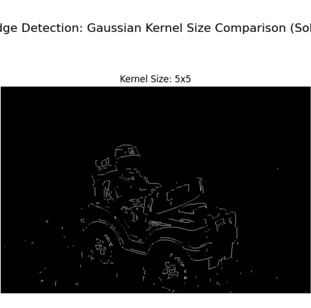
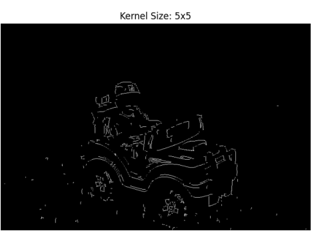
Trim suptitle and OCR print output from top of split images

diff --git a/convert.py b/convert.py
@@ -83,8 +83,8 @@ def _find_gap_columns(gray: np.ndarray) -> np.ndarray:
 def _trim_content_rows(gray: np.ndarray) -> tuple[int, int]:
     """Returns (y_start, y_end) of the main dark-content block inside a
     cropped image slice. Skips thin text rows (suptitles, OCR bleed) at the
-    top by requiring rows to have a high density of dark pixels (image
-    content), not just sparse text strokes."""
+    top by requiring a long run of dense rows (real image content), not just
+    one or two dense rows that may be text descenders or punctuation."""
     h, w = gray.shape
     if h == 0:
         return 0, 0
@@ -95,20 +95,58 @@ def _trim_content_rows(gray: np.ndarray) -> tuple[int, int]:
     dark_mask = gray < (WHITE_THRESHOLD - 60)
     row_density = dark_mask.sum(axis=1) / max(1, w)
 
-    # Density threshold: text rows have density < 0.15; image rows have >= 0.30.
+    # Find the first run of MIN_RUN consecutive dense rows. Image content has
+    # long dense stretches; text rows are short isolated dense strokes.
     DENSITY_THRESHOLD = 0.30
-    is_content = row_density >= DENSITY_THRESHOLD
+    MIN_RUN = 15
+    is_dense = row_density >= DENSITY_THRESHOLD
 
-    if not is_content.any():
-        # Fall back to first/last dark row.
+    start_y = 0
+    run = 0
+    found = False
+    for y in range(h):
+        if is_dense[y]:
+            run += 1
+            if run >= MIN_RUN:
+                # First row of this long run is our content start.
+                start_y = y - run + 1
+                found = True
+                break
+        else:
+            run = 0
+
+    if not found:
+        # No long dense run found: fall back to first dark row, or full image.
         any_dark = dark_mask.any(axis=1)
         if not any_dark.any():
             return 0, h
         ys = np.where(any_dark)[0]
         return int(ys[0]), int(ys[-1]) + 1
 
-    ys = np.where(is_content)[0]
-    return int(ys[0]), int(ys[-1]) + 1
+    # Now find the end: walk from start_y to find the last dense row that is
+    # followed by enough dense rows to be content (avoid stopping at a text
+    # descender above another text band).
+    end_y = h
+    run = 0
+    last_dense = start_y
+    for y in range(start_y, h):
+        if is_dense[y]:
+            run += 1
+            last_dense = y
+        else:
+            if run >= MIN_RUN:
+                # This was a real content run; keep last_dense as current end.
+                end_y = last_dense + 1
+            run = 0
+    if run >= MIN_RUN:
+        end_y = last_dense + 1
+
+    # If everything after start_y is sparse text (no MIN_RUN block), keep
+    # start_y to end of image rather than nothing.
+    if end_y <= start_y:
+        end_y = h
+
+    return int(start_y), int(end_y)
 
 
 def _find_subplot_titles(img: Image.Image, segments: list[tuple[int, int]],
@@ -224,13 +262,13 @@ def split_grid_image(image_path: Path) -> list[tuple[Path, str]]:
         else:
             cropped = img.crop((0, a0, img.width, a1))
 
-        # Trim out any stray title/OCR text that bleeds into the part. Use a
-        # small padding so the per-subplot title stays visible, while the
-        # suptitle (which sits well above the first row of dense content) is
-        # removed.
+        # Trim out any stray title/OCR text that bleeds into the part. The
+        # per-subplot title sits just above the dense content (within ~12 px),
+        # so a small top pad keeps it visible while cutting off the suptitle
+        # and OCR print() output that sits well above the first dense block.
         cropped_gray = np.array(cropped.convert("L"))
         y0, y1 = _trim_content_rows(cropped_gray)
-        title_pad = max(8, int(cropped.height * 0.04))
+        title_pad = 12  # enough for per-subplot title text, drops suptitle
         y0_padded = max(0, y0 - title_pad)
         if y1 - y0_padded > 20:
             cropped = cropped.crop((0, y0_padded, cropped.width, y1))
